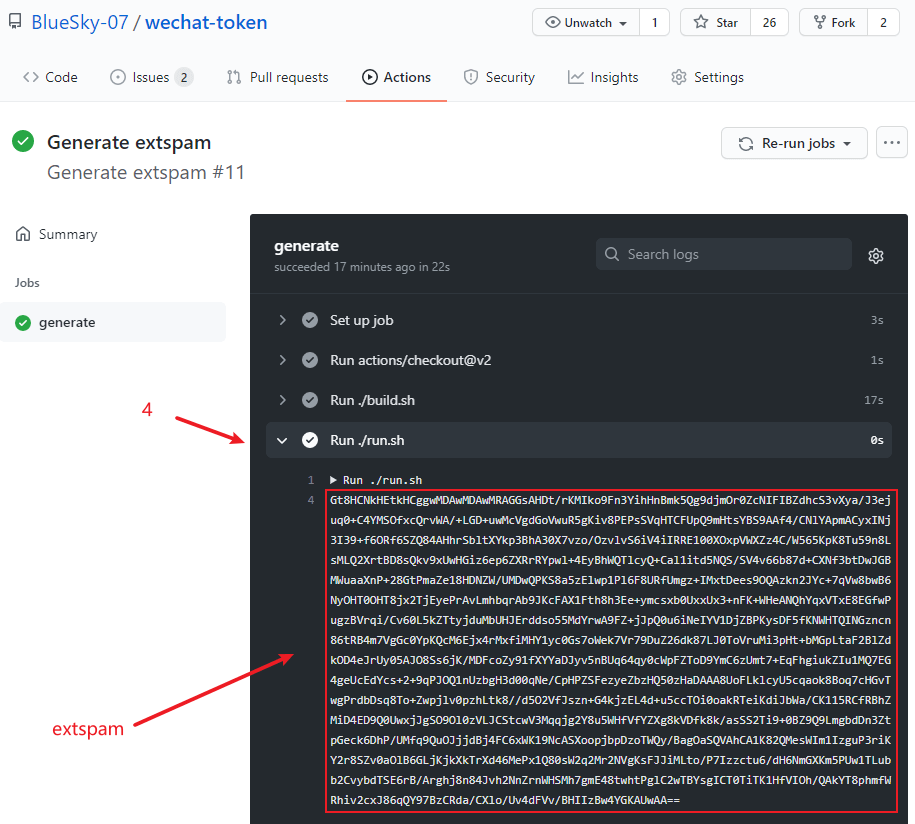
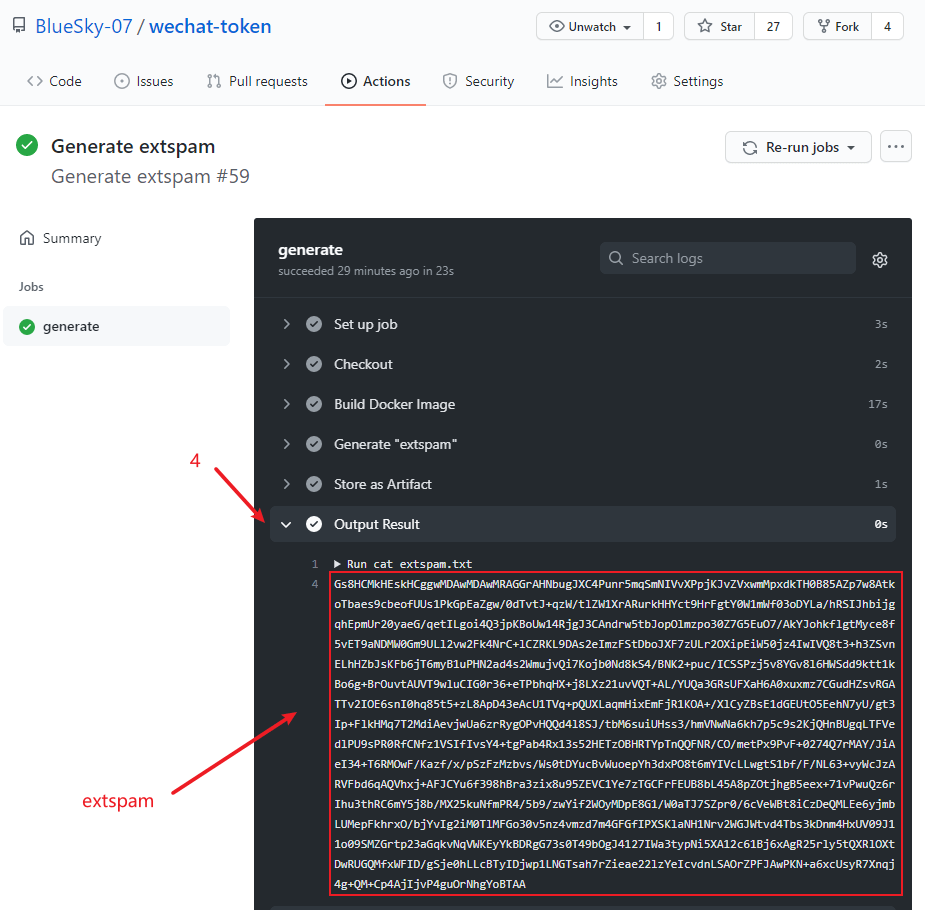
add Github Actions artifact

diff --git a/README.md b/README.md
@@ -23,6 +23,8 @@ git clone https://github.com/BlueSky-07/wechat-token --depth=1
 
 visit [Actions](https://github.com/BlueSky-07/wechat-token/actions) and view latest runner output to get generated `extspam`
 
+***Note: Github Actions logs and artficts will keep in 24 hours***
+
 ![actions_1](doc/actions_1.png)
 ![actions_2](doc/actions_2.png)
 ![actions_3](doc/actions_3.png)
